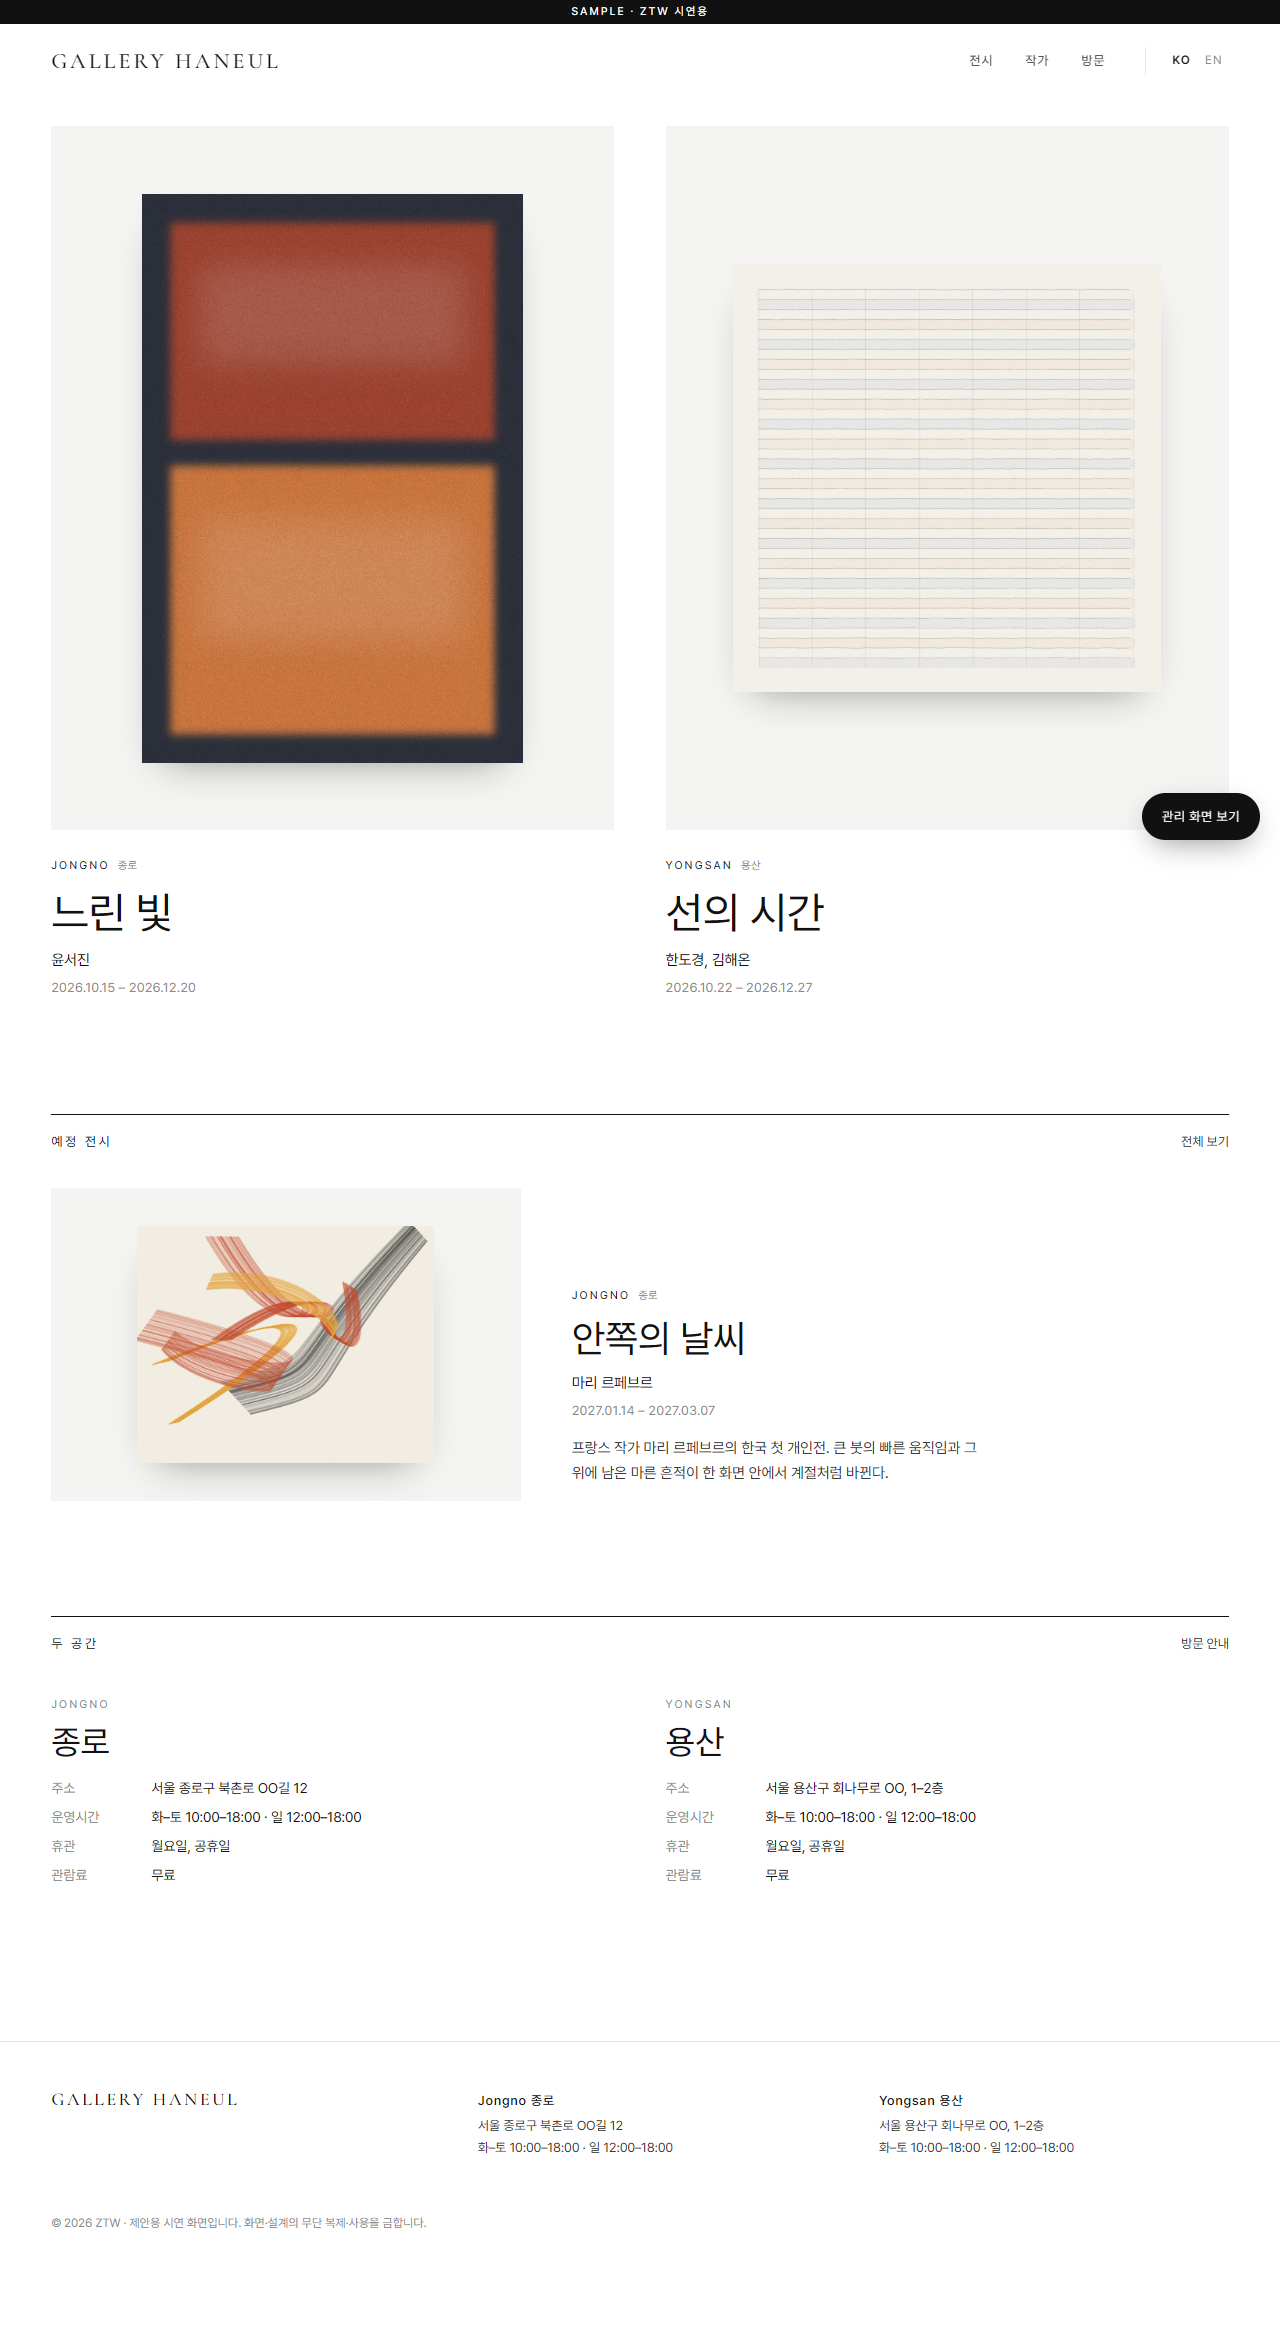
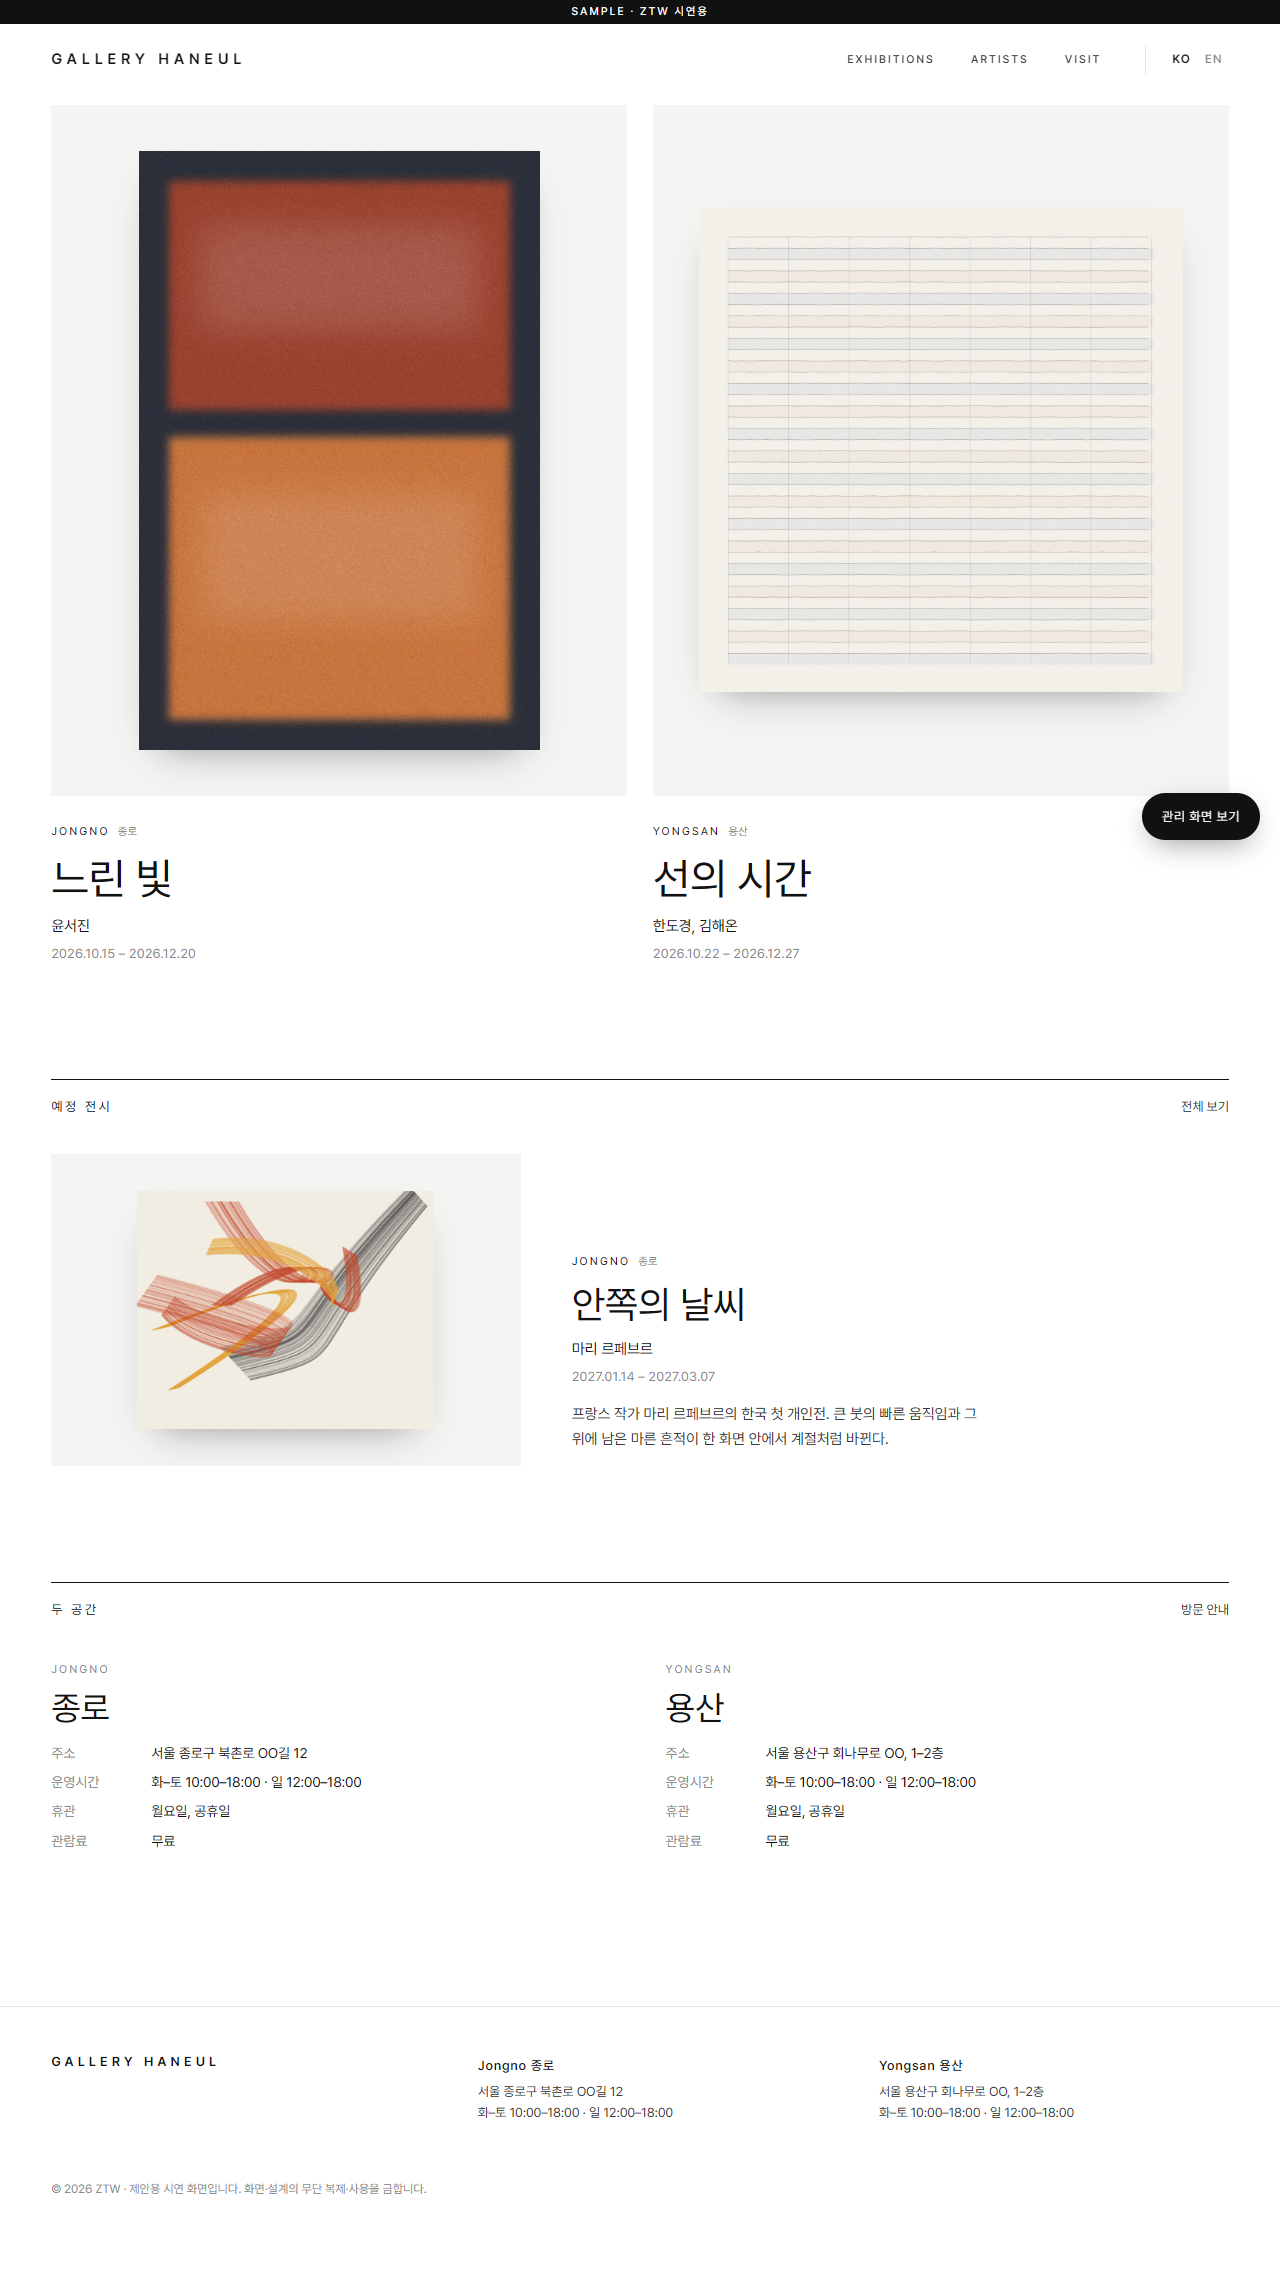
demo: art-gallery-site 참고 톤(산세리프 대문자 메뉴·큰 이미지) 반영, 업로드 자동 리사이즈·WebP 용량 표시
Claude-Session: https://claude.ai/code/session_012JaYKgJFSqm8jCqQE1F5QD

diff --git a/art-gallery-site/app.js b/art-gallery-site/app.js
@@ -197,7 +197,7 @@ const EXHIBITIONS = [
 
 /* ---------- 문구 ---------- */
 const S = {
-  ko: { nav_ex: '전시', nav_ar: '작가', nav_vi: '방문', current: '현재 전시', upcoming: '예정 전시', past: '지난 전시', viewAll: '전체 보기', spaces: '두 공간', exhibitions: '전시', artists: '작가', visit: '방문 안내', hours: '운영시간', hoursV: '화–토 10:00–18:00 · 일 12:00–18:00', closed: '휴관', closedV: '월요일, 공휴일', admission: '관람료', admissionV: '무료', address: '주소', map: '지도에서 보기 →', mapNote: '실납품 시 네이버·카카오 지도로 연결', period: '기간', space: '공간', artist: '작가', works: '작품', back: '← 전시 목록', none: '해당하는 전시가 없습니다.', born: '년생', visitNote: '단체 관람·도슨트 예약은 실납품 시 예약 폼으로 연결됩니다. 주소·운영시간은 시연용 가상 정보입니다.', newBadge: 'NEW' },
+  ko: { nav_ex: 'Exhibitions', nav_ar: 'Artists', nav_vi: 'Visit', current: '현재 전시', upcoming: '예정 전시', past: '지난 전시', viewAll: '전체 보기', spaces: '두 공간', exhibitions: '전시', artists: '작가', visit: '방문 안내', hours: '운영시간', hoursV: '화–토 10:00–18:00 · 일 12:00–18:00', closed: '휴관', closedV: '월요일, 공휴일', admission: '관람료', admissionV: '무료', address: '주소', map: '지도에서 보기 →', mapNote: '실납품 시 네이버·카카오 지도로 연결', period: '기간', space: '공간', artist: '작가', works: '작품', back: '← 전시 목록', none: '해당하는 전시가 없습니다.', born: '년생', visitNote: '단체 관람·도슨트 예약은 실납품 시 예약 폼으로 연결됩니다. 주소·운영시간은 시연용 가상 정보입니다.', newBadge: 'NEW' },
   en: { nav_ex: 'Exhibitions', nav_ar: 'Artists', nav_vi: 'Visit', current: 'Current', upcoming: 'Upcoming', past: 'Past', viewAll: 'View all', spaces: 'Two Spaces', exhibitions: 'Exhibitions', artists: 'Artists', visit: 'Visit', hours: 'Hours', hoursV: 'Tue–Sat 10:00–18:00 · Sun 12:00–18:00', closed: 'Closed', closedV: 'Mondays, public holidays', admission: 'Admission', admissionV: 'Free', address: 'Address', map: 'View on map →', mapNote: 'Linked to Naver/Kakao Map on delivery', period: 'Dates', space: 'Space', artist: 'Artist', works: 'Works', back: '← All exhibitions', none: 'No exhibitions here.', born: 'b.', visitNote: 'Group visits and docent bookings will link to a booking form on delivery. Address and hours are fictional for this demo.', newBadge: 'NEW' },
 };
 let lang = 'ko';
@@ -342,15 +342,30 @@ const toggleAdmin = (open) => {
 $('admin-toggle').onclick = () => toggleAdmin(admin.hidden);
 $('admin-close').onclick = () => toggleAdmin(false);
 
+// 대량 업로드 대비: 긴 변 2400px로 줄이고 WebP로 바꿔 용량을 미리 보여 줌
+const MAX_SIDE = 2400, WEBP_Q = 0.82;
+const kb = (n) => (n >= 1048576 ? (n / 1048576).toFixed(1) + 'MB' : Math.max(1, Math.round(n / 1024)) + 'KB');
+const readAs = (blob) => new Promise((res, rej) => { const fr = new FileReader(); fr.onload = () => res(fr.result); fr.onerror = rej; fr.readAsDataURL(blob); });
+async function optimize(f) {
+  const orig = await readAs(f);
+  const im = new Image(); im.src = orig; await im.decode();
+  const k = Math.min(1, MAX_SIDE / Math.max(im.naturalWidth, im.naturalHeight));
+  const cv = document.createElement('canvas');
+  cv.width = Math.round(im.naturalWidth * k); cv.height = Math.round(im.naturalHeight * k);
+  cv.getContext('2d').drawImage(im, 0, 0, cv.width, cv.height);
+  const webp = await new Promise((res) => cv.toBlob(res, 'image/webp', WEBP_Q));
+  const useWebp = webp && webp.size < f.size; // 이미 작은 파일은 원본 유지
+  return {
+    src: useWebp ? await readAs(webp) : orig, artist: '', title: f.name.replace(/\.[^.]+$/, ''), year: '', material: '', size: '',
+    before: f.size, after: useWebp ? webp.size : f.size, dims: `${im.naturalWidth}×${im.naturalHeight} → ${cv.width}×${cv.height}`,
+  };
+}
 function addFiles(files) {
   const imgs = [...files].filter((f) => f.type.startsWith('image/'));
   if (!imgs.length) { msg('이미지 파일만 올릴 수 있습니다.'); return; }
-  Promise.all(imgs.map((f) => new Promise((res) => {
-    const fr = new FileReader();
-    fr.onload = () => res({ src: fr.result, artist: '', title: f.name.replace(/\.[^.]+$/, ''), year: '', material: '', size: '' });
-    fr.onerror = () => res(null);
-    fr.readAsDataURL(f);
-  }))).then((list) => { items.push(...list.filter(Boolean)); drawRows(); msg(''); });
+  msg(`${imgs.length}장 변환 중…`, true);
+  Promise.all(imgs.map((f) => optimize(f).catch(() => null)))
+    .then((list) => { items.push(...list.filter(Boolean)); drawRows(); msg(''); });
 }
 const drop = $('drop');
 ['dragenter', 'dragover'].forEach((t) => drop.addEventListener(t, (ev) => { if (ev.dataTransfer.types.includes('Files')) { ev.preventDefault(); drop.classList.add('over'); } }));
@@ -361,12 +376,14 @@ $('f-files').addEventListener('change', (ev) => { addFiles(ev.target.files); ev.
 const COLS = [['artist', '작가'], ['title', '제목'], ['year', '연도'], ['material', '재료'], ['size', '크기 (cm)']];
 function drawRows() {
   if (!items.length) { rowsEl.innerHTML = '<p class="empty">아직 올린 이미지가 없습니다.</p>'; return; }
-  rowsEl.innerHTML = `<div class="row head"><span></span><span>이미지</span>${COLS.map((c) => `<span>${c[1]}</span>`).join('')}<span></span></div>` +
+  const tb = items.reduce((a, x) => a + x.before, 0), ta = items.reduce((a, x) => a + x.after, 0);
+  rowsEl.innerHTML = `<div class="opt-sum"><strong>${items.length}장</strong> · 원본 ${kb(tb)} → 변환 후 ${kb(ta)} <b>−${Math.round((1 - ta / tb) * 100)}%</b><span>긴 변 ${MAX_SIDE}px 자동 축소 · WebP 변환</span></div><div class="row head"><span></span><span>이미지</span>${COLS.map((c) => `<span>${c[1]}</span>`).join('')}<span></span></div>` +
     items.map((it, i) => `<div class="row" data-row="${i}">
       <span class="handle" draggable="true" title="끌어서 순서 바꾸기">⋮⋮</span>
       <span class="th"><img src="${it.src}" alt=""></span>
       ${COLS.map(([k, label]) => `<input data-k="${k}" placeholder="${label}" value="${esc(it[k])}">`).join('')}
-      <button class="del" data-del="${i}" aria-label="삭제">×</button></div>`).join('');
+      <button class="del" data-del="${i}" aria-label="삭제">×</button>
+      <span class="sz">${it.dims} · ${kb(it.before)} → ${kb(it.after)} <b>−${Math.round((1 - it.after / it.before) * 100)}%</b></span></div>`).join('');
 }
 rowsEl.addEventListener('input', (ev) => { const r = ev.target.closest('[data-row]'); if (r && ev.target.dataset.k) items[+r.dataset.row][ev.target.dataset.k] = ev.target.value; });
 rowsEl.addEventListener('click', (ev) => { const d = ev.target.closest('[data-del]'); if (d) { items.splice(+d.dataset.del, 1); drawRows(); } });

diff --git a/art-gallery-site/style.css b/art-gallery-site/style.css
@@ -21,8 +21,8 @@ img{display:block;max-width:100%}
   backdrop-filter:blur(8px);display:flex;align-items:center;justify-content:space-between;gap:24px;
   padding:22px var(--gut);border-bottom:1px solid transparent;transition:border-color .2s}
 .site-head.scrolled{border-color:var(--line)}
-.logo{font:500 22px/1 var(--serif);letter-spacing:.14em;text-transform:uppercase;white-space:nowrap}
-.nav{display:flex;align-items:center;gap:32px;font-size:13px;letter-spacing:.06em}
+.logo{font:600 15px/1 var(--sans);letter-spacing:.32em;text-transform:uppercase;white-space:nowrap}
+.nav{display:flex;align-items:center;gap:36px;font-size:11px;font-weight:500;letter-spacing:.18em;text-transform:uppercase}
 .nav a{position:relative;padding:4px 0;color:var(--ink2)}
 .nav a.on,.nav a:hover{color:var(--ink)}
 .nav a.on::after{content:"";position:absolute;left:0;right:0;bottom:-2px;height:1px;background:var(--ink)}
@@ -39,9 +39,10 @@ main{min-height:70vh}
 h1,h2,h3{font-weight:400;margin:0}
 
 /* home hero */
-.hero{display:grid;grid-template-columns:1fr 1fr;gap:var(--gut);padding:28px var(--gut) 0}
+.hero{display:grid;grid-template-columns:1fr 1fr;gap:clamp(16px,2vw,28px);padding:8px var(--gut) 0}
+.hero .hero-art{aspect-ratio:5/6}
 .hero-item{display:block}
-.hero-art{background:var(--wall);aspect-ratio:4/5;display:flex;align-items:center;justify-content:center;padding:12%;overflow:hidden}
+.hero-art{background:var(--wall);aspect-ratio:4/5;display:flex;align-items:center;justify-content:center;padding:8%;overflow:hidden}
 .hero-art img{max-height:100%;width:auto;box-shadow:0 18px 40px -22px rgba(0,0,0,.45);transition:transform .8s cubic-bezier(.2,.7,.2,1)}
 .hero-item:hover .hero-art img{transform:scale(1.02)}
 .hero-text{padding:22px 0 0}
@@ -117,7 +118,7 @@ h1,h2,h3{font-weight:400;margin:0}
 /* footer */
 .site-foot{margin-top:clamp(96px,12vw,160px);border-top:1px solid var(--line);padding:48px var(--gut) 96px}
 .foot-grid{display:grid;grid-template-columns:4fr 8fr;gap:var(--gut);font-size:13px;color:var(--ink2)}
-.foot-logo{font:500 18px/1 var(--serif);letter-spacing:.14em;text-transform:uppercase;color:var(--ink)}
+.foot-logo{font:600 13px/1 var(--sans);letter-spacing:.32em;text-transform:uppercase;color:var(--ink)}
 #foot-spaces{display:grid;grid-template-columns:1fr 1fr;gap:var(--gut)}
 #foot-spaces strong{display:block;font-weight:500;color:var(--ink);margin-bottom:4px;letter-spacing:.06em}
 .copy{margin:56px 0 0;font-size:12px;color:var(--mute)}
@@ -174,6 +175,10 @@ h1,h2,h3{font-weight:400;margin:0}
 .row .th img{max-width:100%;max-height:100%}
 .row input{padding:7px 7px !important;font-size:13px !important}
 .del{color:var(--mute);font-size:18px}
+.sz{grid-column:2/-2;font-size:11px;color:var(--mute);letter-spacing:.01em}
+.sz b,.opt-sum b{color:#1b6b3a;font-weight:600}
+.opt-sum{display:flex;flex-wrap:wrap;gap:4px 10px;align-items:baseline;font-size:13px;padding:10px 12px;margin-bottom:10px;border:1px solid var(--line);border-radius:4px}
+.opt-sum span{margin-left:auto;font-size:11px;color:var(--mute)}
 .admin-foot{position:sticky;bottom:0;display:flex;justify-content:flex-end;align-items:center;gap:14px;margin-top:20px;padding:14px 24px;background:#fafafa;border-top:1px solid var(--line)}
 .publish{padding:12px 32px;font-size:14px}
 .msg{font-size:13px;color:#b00020}
@@ -187,7 +192,7 @@ h1,h2,h3{font-weight:400;margin:0}
 @media (max-width: 680px){
   body{font-size:14px}
   .site-head{flex-direction:column;align-items:flex-start;gap:14px;padding:16px var(--gut) 12px}
-  .logo{font-size:19px}
+  .logo{font-size:13px}
   .nav{gap:22px;width:100%}
   .lang{margin-left:auto}
   .hero,.spaces,.visit,.ex-list{grid-template-columns:1fr}
@@ -205,7 +210,8 @@ h1,h2,h3{font-weight:400;margin:0}
   .form-grid{grid-template-columns:1fr 1fr}
   .bulk{grid-template-columns:1fr 1fr}
   .row.head{display:none}
-  .row{grid-template-columns:22px 56px 1fr 1fr 24px;grid-template-areas:"h t a ti d" "h t y m d" "h t s s d"}
+  .row{grid-template-columns:22px 56px 1fr 1fr 24px;grid-template-areas:"h t a ti d" "h t y m d" "h t s s d" "h z z z d"}
+  .row .sz{grid-area:z}
   .row .handle{grid-area:h}.row .th{grid-area:t}.row .del{grid-area:d}
   .row [data-k=artist]{grid-area:a}.row [data-k=title]{grid-area:ti}
   .row [data-k=year]{grid-area:y}.row [data-k=material]{grid-area:m}.row [data-k=size]{grid-area:s}

diff --git a/art-gallery-site/index.html b/art-gallery-site/index.html
@@ -74,6 +74,7 @@
       <input type="file" id="f-files" accept="image/*" multiple>
       <strong>이미지를 여기로 끌어다 놓으세요</strong>
       <span>여러 장을 한 번에 올릴 수 있습니다 · 클릭해서 고르기</span>
+      <span>고화질 원본도 그대로 올리세요 — 긴 변 2400px로 자동 축소하고 WebP로 바꿔 페이지 속도를 지킵니다</span>
     </label>
   </section>
 
